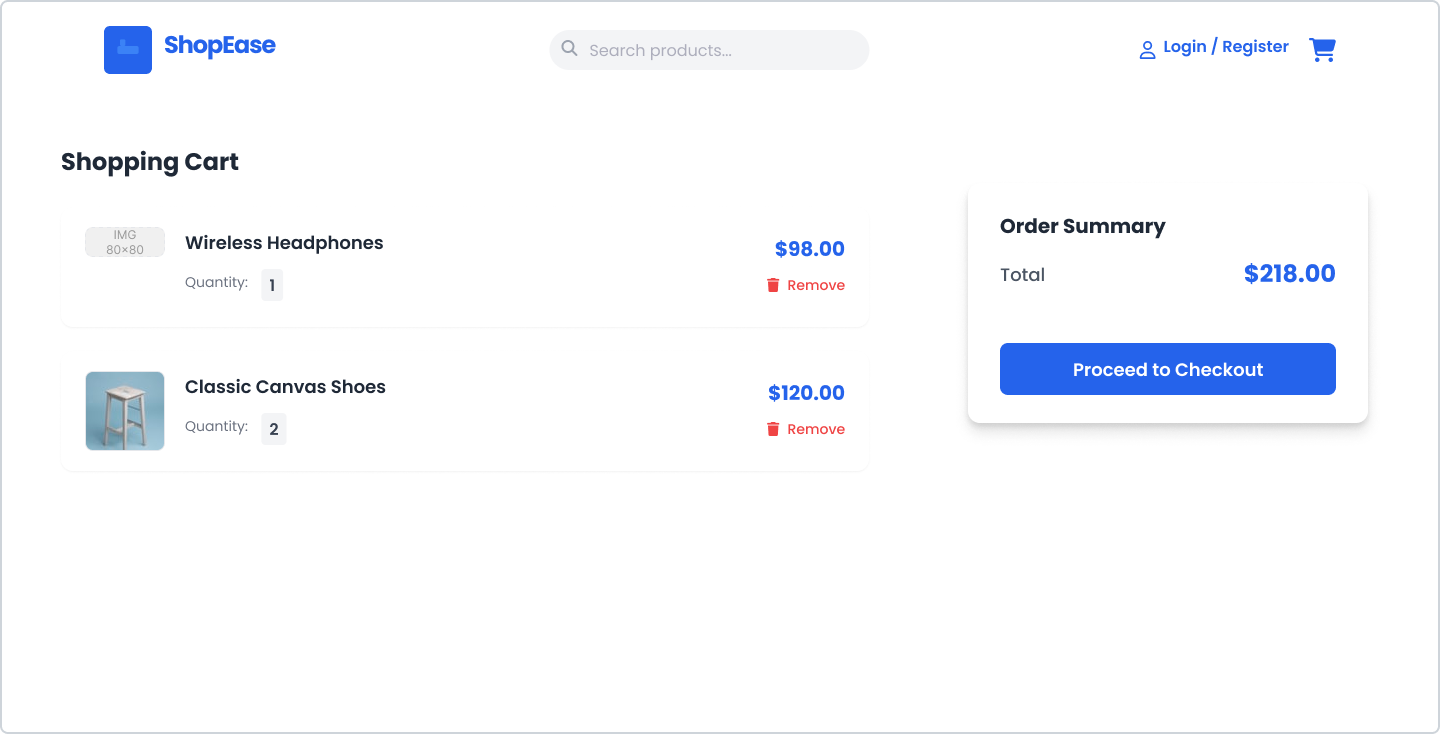
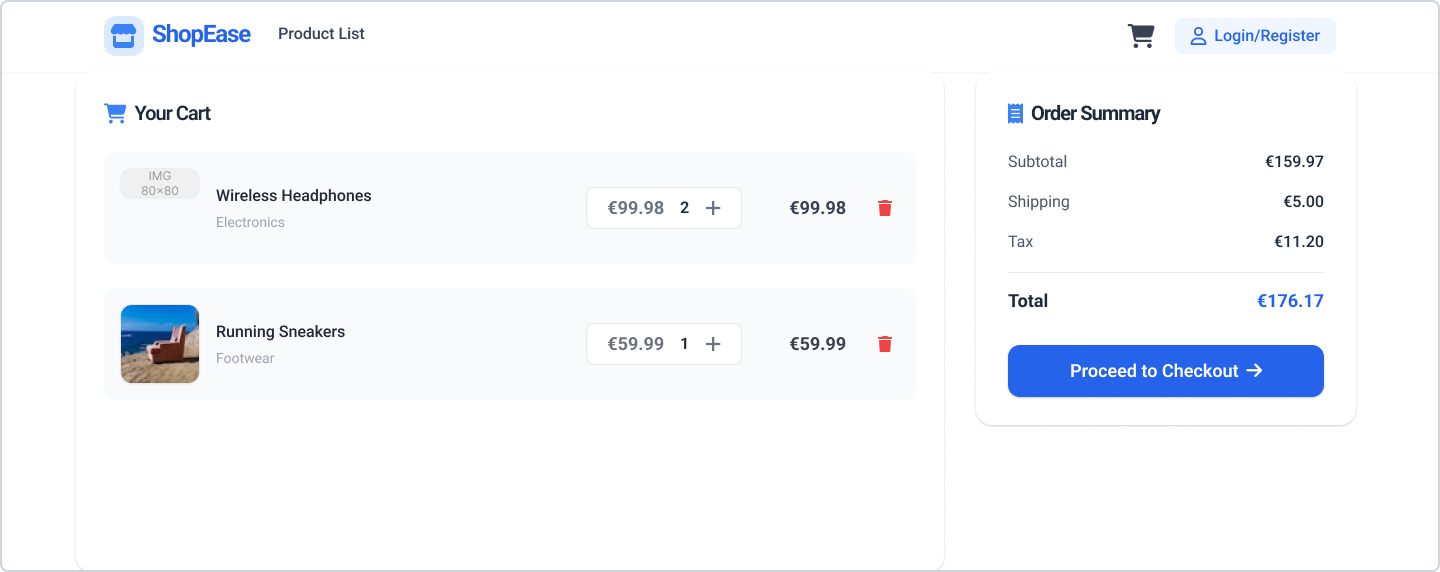
Slightly changed the photo for the shopping cart

diff --git a/Mockup/Mockup.tex b/Mockup/Mockup.tex
@@ -161,6 +161,10 @@ cards maximise tap targets on touch devices.
 	\end{tabular}
 \end{table}
 
+% =======================================================
+% 2) SHOPPING CART SCREEN  -------------------------------
+% =======================================================
+
 	\subsection{Shopping Cart}\label{subsec:shopping-cart}
 
 	\begin{figure}[H]
@@ -180,16 +184,23 @@ cards maximise tap targets on touch devices.
 		\centering
 		\caption{Shopping cart – elements and rationale}
 		\label{tab:cart-elements}
+
 		\begin{tabular}{p{0.30\linewidth} p{0.60\linewidth}}
-			\toprule
-			\textbf{Design element} & \textbf{Purpose \& rationale} \\ \midrule
-			Product rows            & Displays item names, images, and prices for verification. "Remove" option allow the removal of an item. \\
-			Order summary           & Provides the total amount of costs to reduce checkout abandonment. \\
-			Proceed to Checkout (CTA) & High-contrast button positioned last in the visual flow to guide users toward conversion. \\
-			\bottomrule
-		\end{tabular}
+        	\toprule
+        	\textbf{Design element} & \textbf{Purpose \& rationale} \\ \midrule
+				Product rows            & Displays item names, images, and prices for verification. "Quantity" and "Remove" options allow instant edits. \\
+        		Order summary           & Provides a clear breakdown of costs (e.g., subtotal, shipping) to reduce checkout abandonment. \\
+        		Proceed to Checkout (CTA) & High-contrast button positioned last in the visual flow to guide users toward conversion. \\
+        		Login/Register prompt   & Encourages account creation *after* cart engagement to avoid early friction. \\
+        	\bottomrule
+    	\end{tabular}
+
 	\end{table}
 
+
+% =======================================================
+% 2) REGISTER/LOGIN SCREEN  -------------------------------
+% =======================================================
 
 	\subsection{Login \& Registration}\label{subsec:login-register}
 
